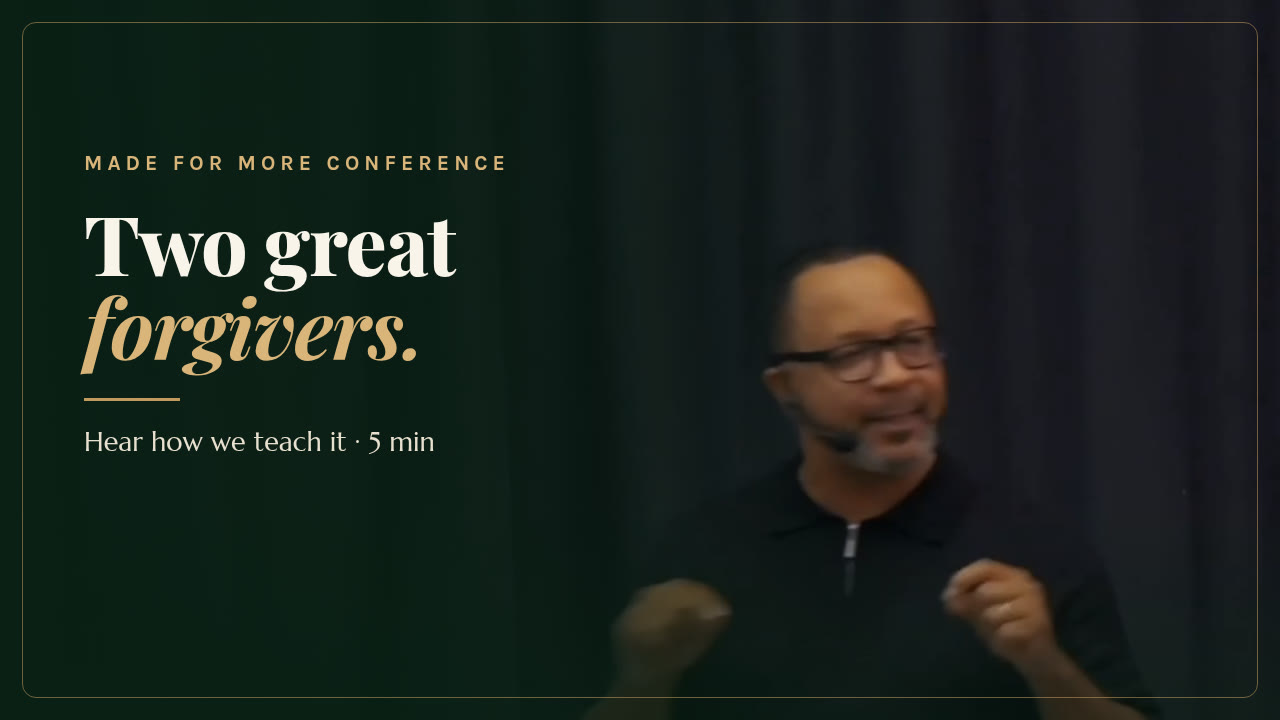
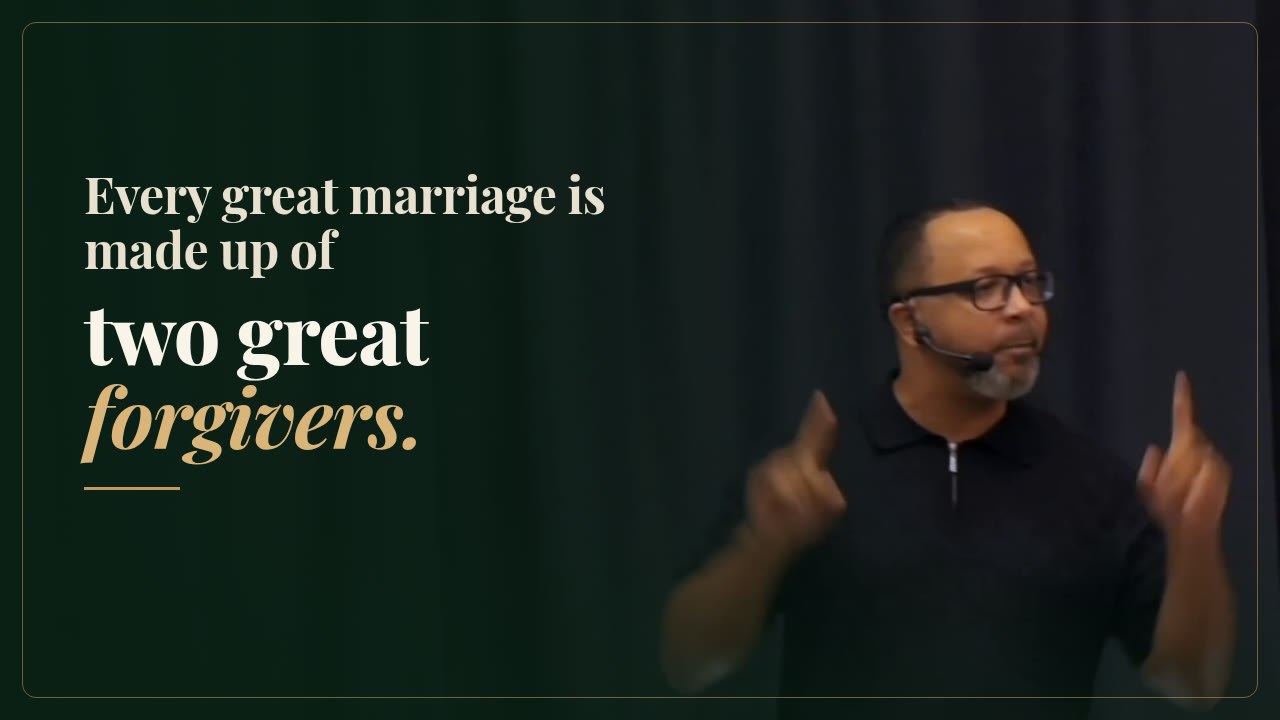
Video thumbnails: talk one-liners only, new smiling/action frames; drop conference and runtime text
- Home poster: new frame (smiling, arms raised), text only 'Fighting fair is still fighting.'
- Speaking poster: new action frame, text 'Every great marriage is made up of two great forgivers.'
- No conference name or runtime on either thumbnail
- Speaking caption and both aria-labels no longer name the conference or runtime
- Poster URLs bumped to ?v=3; applied to all 24 page copies

diff --git a/about/index.html b/about/index.html
@@ -2489,7 +2489,7 @@ body:has(#view-thanks:not([hidden])) .foot{display:none}
 }
 
 
-/* Talk video (Made for More conference) */
+/* Talk video */
 .talk__head{max-width:46rem;margin-bottom:clamp(1.75rem,4vw,2.75rem)}
 .talk__frame{margin:0;max-width:62rem}
 .talk__frame video{display:block;width:100%;height:auto;aspect-ratio:16/9;background:#0D2D1D;border:1px solid rgba(22,38,28,.14);box-shadow:0 22px 44px -28px rgba(13,45,29,.55)}
@@ -2588,7 +2588,7 @@ body:has(#view-thanks:not([hidden])) .foot{display:none}
         <h1 class="reveal"><span class="hero__lead">Get the First Chapter of</span><span class="hero__title">Never Fight <em>or</em><br>Argue Again &ndash; Free</span></h1>
         <p class="hero__sub reveal">Discover biblical conflict resolution for couples who have tried everything. Learn practical tools to create safety, restore connection, and communicate without destructive conflict.</p>
         <figure class="hero__video vframe reveal">
-          <video controls preload="none" playsinline width="1280" height="720" poster="/assets/made-for-more-talk-poster.jpg?v=2" aria-label="Larry Beacham speaking at the Made for More conference">
+          <video controls preload="none" playsinline width="1280" height="720" poster="/assets/made-for-more-talk-poster.jpg?v=3" aria-label="Larry Beacham speaking on marriage and conflict">
             <source src="/assets/made-for-more-talk.mp4" type="video/mp4">
             <track kind="captions" src="/assets/made-for-more-talk.vtt" srclang="en" label="English">
           </video>
@@ -3943,11 +3943,11 @@ body:has(#view-thanks:not([hidden])) .foot{display:none}
         <p>Larry and Ro teach this material the way they learned it — plainly, as two people who needed it first. No performance, no polished couple on a stage pretending the hard years didn't happen.</p>
       </div>
       <figure class="phead__video vframe vframe--dark reveal">
-        <video controls preload="none" playsinline width="1280" height="720" poster="/assets/made-for-more-talk-2-poster.jpg?v=2" aria-label="Larry Beacham speaking at the Made for More conference">
+        <video controls preload="none" playsinline width="1280" height="720" poster="/assets/made-for-more-talk-2-poster.jpg?v=3" aria-label="Larry Beacham speaking on marriage and conflict">
           <source src="/assets/made-for-more-talk-2.mp4" type="video/mp4">
           <track kind="captions" src="/assets/made-for-more-talk-2.vtt" srclang="en" label="English">
         </video>
-        <figcaption>Larry Beacham at the Made for More conference. 5 minutes 12 seconds, captions available.</figcaption>
+        <figcaption>Larry Beacham on conflict and forgiveness in marriage. Captions available.</figcaption>
       </figure>
     </div>
   </header>

diff --git a/book-launch/index.html b/book-launch/index.html
@@ -2489,7 +2489,7 @@ body:has(#view-thanks:not([hidden])) .foot{display:none}
 }
 
 
-/* Talk video (Made for More conference) */
+/* Talk video */
 .talk__head{max-width:46rem;margin-bottom:clamp(1.75rem,4vw,2.75rem)}
 .talk__frame{margin:0;max-width:62rem}
 .talk__frame video{display:block;width:100%;height:auto;aspect-ratio:16/9;background:#0D2D1D;border:1px solid rgba(22,38,28,.14);box-shadow:0 22px 44px -28px rgba(13,45,29,.55)}
@@ -2588,7 +2588,7 @@ body:has(#view-thanks:not([hidden])) .foot{display:none}
         <h1 class="reveal"><span class="hero__lead">Get the First Chapter of</span><span class="hero__title">Never Fight <em>or</em><br>Argue Again &ndash; Free</span></h1>
         <p class="hero__sub reveal">Discover biblical conflict resolution for couples who have tried everything. Learn practical tools to create safety, restore connection, and communicate without destructive conflict.</p>
         <figure class="hero__video vframe reveal">
-          <video controls preload="none" playsinline width="1280" height="720" poster="/assets/made-for-more-talk-poster.jpg?v=2" aria-label="Larry Beacham speaking at the Made for More conference">
+          <video controls preload="none" playsinline width="1280" height="720" poster="/assets/made-for-more-talk-poster.jpg?v=3" aria-label="Larry Beacham speaking on marriage and conflict">
             <source src="/assets/made-for-more-talk.mp4" type="video/mp4">
             <track kind="captions" src="/assets/made-for-more-talk.vtt" srclang="en" label="English">
           </video>
@@ -3943,11 +3943,11 @@ body:has(#view-thanks:not([hidden])) .foot{display:none}
         <p>Larry and Ro teach this material the way they learned it — plainly, as two people who needed it first. No performance, no polished couple on a stage pretending the hard years didn't happen.</p>
       </div>
       <figure class="phead__video vframe vframe--dark reveal">
-        <video controls preload="none" playsinline width="1280" height="720" poster="/assets/made-for-more-talk-2-poster.jpg?v=2" aria-label="Larry Beacham speaking at the Made for More conference">
+        <video controls preload="none" playsinline width="1280" height="720" poster="/assets/made-for-more-talk-2-poster.jpg?v=3" aria-label="Larry Beacham speaking on marriage and conflict">
           <source src="/assets/made-for-more-talk-2.mp4" type="video/mp4">
           <track kind="captions" src="/assets/made-for-more-talk-2.vtt" srclang="en" label="English">
         </video>
-        <figcaption>Larry Beacham at the Made for More conference. 5 minutes 12 seconds, captions available.</figcaption>
+        <figcaption>Larry Beacham on conflict and forgiveness in marriage. Captions available.</figcaption>
       </figure>
     </div>
   </header>

diff --git a/book/checkout/index.html b/book/checkout/index.html
@@ -2489,7 +2489,7 @@ body:has(#view-thanks:not([hidden])) .foot{display:none}
 }
 
 
-/* Talk video (Made for More conference) */
+/* Talk video */
 .talk__head{max-width:46rem;margin-bottom:clamp(1.75rem,4vw,2.75rem)}
 .talk__frame{margin:0;max-width:62rem}
 .talk__frame video{display:block;width:100%;height:auto;aspect-ratio:16/9;background:#0D2D1D;border:1px solid rgba(22,38,28,.14);box-shadow:0 22px 44px -28px rgba(13,45,29,.55)}
@@ -2588,7 +2588,7 @@ body:has(#view-thanks:not([hidden])) .foot{display:none}
         <h1 class="reveal"><span class="hero__lead">Get the First Chapter of</span><span class="hero__title">Never Fight <em>or</em><br>Argue Again &ndash; Free</span></h1>
         <p class="hero__sub reveal">Discover biblical conflict resolution for couples who have tried everything. Learn practical tools to create safety, restore connection, and communicate without destructive conflict.</p>
         <figure class="hero__video vframe reveal">
-          <video controls preload="none" playsinline width="1280" height="720" poster="/assets/made-for-more-talk-poster.jpg?v=2" aria-label="Larry Beacham speaking at the Made for More conference">
+          <video controls preload="none" playsinline width="1280" height="720" poster="/assets/made-for-more-talk-poster.jpg?v=3" aria-label="Larry Beacham speaking on marriage and conflict">
             <source src="/assets/made-for-more-talk.mp4" type="video/mp4">
             <track kind="captions" src="/assets/made-for-more-talk.vtt" srclang="en" label="English">
           </video>
@@ -3945,11 +3945,11 @@ body:has(#view-thanks:not([hidden])) .foot{display:none}
         <p>Larry and Ro teach this material the way they learned it — plainly, as two people who needed it first. No performance, no polished couple on a stage pretending the hard years didn't happen.</p>
       </div>
       <figure class="phead__video vframe vframe--dark reveal">
-        <video controls preload="none" playsinline width="1280" height="720" poster="/assets/made-for-more-talk-2-poster.jpg?v=2" aria-label="Larry Beacham speaking at the Made for More conference">
+        <video controls preload="none" playsinline width="1280" height="720" poster="/assets/made-for-more-talk-2-poster.jpg?v=3" aria-label="Larry Beacham speaking on marriage and conflict">
           <source src="/assets/made-for-more-talk-2.mp4" type="video/mp4">
           <track kind="captions" src="/assets/made-for-more-talk-2.vtt" srclang="en" label="English">
         </video>
-        <figcaption>Larry Beacham at the Made for More conference. 5 minutes 12 seconds, captions available.</figcaption>
+        <figcaption>Larry Beacham on conflict and forgiveness in marriage. Captions available.</figcaption>
       </figure>
     </div>
   </header>

diff --git a/book/index.html b/book/index.html
@@ -2489,7 +2489,7 @@ body:has(#view-thanks:not([hidden])) .foot{display:none}
 }
 
 
-/* Talk video (Made for More conference) */
+/* Talk video */
 .talk__head{max-width:46rem;margin-bottom:clamp(1.75rem,4vw,2.75rem)}
 .talk__frame{margin:0;max-width:62rem}
 .talk__frame video{display:block;width:100%;height:auto;aspect-ratio:16/9;background:#0D2D1D;border:1px solid rgba(22,38,28,.14);box-shadow:0 22px 44px -28px rgba(13,45,29,.55)}
@@ -2588,7 +2588,7 @@ body:has(#view-thanks:not([hidden])) .foot{display:none}
         <h1 class="reveal"><span class="hero__lead">Get the First Chapter of</span><span class="hero__title">Never Fight <em>or</em><br>Argue Again &ndash; Free</span></h1>
         <p class="hero__sub reveal">Discover biblical conflict resolution for couples who have tried everything. Learn practical tools to create safety, restore connection, and communicate without destructive conflict.</p>
         <figure class="hero__video vframe reveal">
-          <video controls preload="none" playsinline width="1280" height="720" poster="/assets/made-for-more-talk-poster.jpg?v=2" aria-label="Larry Beacham speaking at the Made for More conference">
+          <video controls preload="none" playsinline width="1280" height="720" poster="/assets/made-for-more-talk-poster.jpg?v=3" aria-label="Larry Beacham speaking on marriage and conflict">
             <source src="/assets/made-for-more-talk.mp4" type="video/mp4">
             <track kind="captions" src="/assets/made-for-more-talk.vtt" srclang="en" label="English">
           </video>
@@ -3943,11 +3943,11 @@ body:has(#view-thanks:not([hidden])) .foot{display:none}
         <p>Larry and Ro teach this material the way they learned it — plainly, as two people who needed it first. No performance, no polished couple on a stage pretending the hard years didn't happen.</p>
       </div>
       <figure class="phead__video vframe vframe--dark reveal">
-        <video controls preload="none" playsinline width="1280" height="720" poster="/assets/made-for-more-talk-2-poster.jpg?v=2" aria-label="Larry Beacham speaking at the Made for More conference">
+        <video controls preload="none" playsinline width="1280" height="720" poster="/assets/made-for-more-talk-2-poster.jpg?v=3" aria-label="Larry Beacham speaking on marriage and conflict">
           <source src="/assets/made-for-more-talk-2.mp4" type="video/mp4">
           <track kind="captions" src="/assets/made-for-more-talk-2.vtt" srclang="en" label="English">
         </video>
-        <figcaption>Larry Beacham at the Made for More conference. 5 minutes 12 seconds, captions available.</figcaption>
+        <figcaption>Larry Beacham on conflict and forgiveness in marriage. Captions available.</figcaption>
       </figure>
     </div>
   </header>

diff --git a/churches/index.html b/churches/index.html
@@ -2489,7 +2489,7 @@ body:has(#view-thanks:not([hidden])) .foot{display:none}
 }
 
 
-/* Talk video (Made for More conference) */
+/* Talk video */
 .talk__head{max-width:46rem;margin-bottom:clamp(1.75rem,4vw,2.75rem)}
 .talk__frame{margin:0;max-width:62rem}
 .talk__frame video{display:block;width:100%;height:auto;aspect-ratio:16/9;background:#0D2D1D;border:1px solid rgba(22,38,28,.14);box-shadow:0 22px 44px -28px rgba(13,45,29,.55)}
@@ -2588,7 +2588,7 @@ body:has(#view-thanks:not([hidden])) .foot{display:none}
         <h1 class="reveal"><span class="hero__lead">Get the First Chapter of</span><span class="hero__title">Never Fight <em>or</em><br>Argue Again &ndash; Free</span></h1>
         <p class="hero__sub reveal">Discover biblical conflict resolution for couples who have tried everything. Learn practical tools to create safety, restore connection, and communicate without destructive conflict.</p>
         <figure class="hero__video vframe reveal">
-          <video controls preload="none" playsinline width="1280" height="720" poster="/assets/made-for-more-talk-poster.jpg?v=2" aria-label="Larry Beacham speaking at the Made for More conference">
+          <video controls preload="none" playsinline width="1280" height="720" poster="/assets/made-for-more-talk-poster.jpg?v=3" aria-label="Larry Beacham speaking on marriage and conflict">
             <source src="/assets/made-for-more-talk.mp4" type="video/mp4">
             <track kind="captions" src="/assets/made-for-more-talk.vtt" srclang="en" label="English">
           </video>
@@ -3943,11 +3943,11 @@ body:has(#view-thanks:not([hidden])) .foot{display:none}
         <p>Larry and Ro teach this material the way they learned it — plainly, as two people who needed it first. No performance, no polished couple on a stage pretending the hard years didn't happen.</p>
       </div>
       <figure class="phead__video vframe vframe--dark reveal">
-        <video controls preload="none" playsinline width="1280" height="720" poster="/assets/made-for-more-talk-2-poster.jpg?v=2" aria-label="Larry Beacham speaking at the Made for More conference">
+        <video controls preload="none" playsinline width="1280" height="720" poster="/assets/made-for-more-talk-2-poster.jpg?v=3" aria-label="Larry Beacham speaking on marriage and conflict">
           <source src="/assets/made-for-more-talk-2.mp4" type="video/mp4">
           <track kind="captions" src="/assets/made-for-more-talk-2.vtt" srclang="en" label="English">
         </video>
-        <figcaption>Larry Beacham at the Made for More conference. 5 minutes 12 seconds, captions available.</figcaption>
+        <figcaption>Larry Beacham on conflict and forgiveness in marriage. Captions available.</figcaption>
       </figure>
     </div>
   </header>

diff --git a/express/index.html b/express/index.html
@@ -2489,7 +2489,7 @@ body:has(#view-thanks:not([hidden])) .foot{display:none}
 }
 
 
-/* Talk video (Made for More conference) */
+/* Talk video */
 .talk__head{max-width:46rem;margin-bottom:clamp(1.75rem,4vw,2.75rem)}
 .talk__frame{margin:0;max-width:62rem}
 .talk__frame video{display:block;width:100%;height:auto;aspect-ratio:16/9;background:#0D2D1D;border:1px solid rgba(22,38,28,.14);box-shadow:0 22px 44px -28px rgba(13,45,29,.55)}
@@ -2588,7 +2588,7 @@ body:has(#view-thanks:not([hidden])) .foot{display:none}
         <h1 class="reveal"><span class="hero__lead">Get the First Chapter of</span><span class="hero__title">Never Fight <em>or</em><br>Argue Again &ndash; Free</span></h1>
         <p class="hero__sub reveal">Discover biblical conflict resolution for couples who have tried everything. Learn practical tools to create safety, restore connection, and communicate without destructive conflict.</p>
         <figure class="hero__video vframe reveal">
-          <video controls preload="none" playsinline width="1280" height="720" poster="/assets/made-for-more-talk-poster.jpg?v=2" aria-label="Larry Beacham speaking at the Made for More conference">
+          <video controls preload="none" playsinline width="1280" height="720" poster="/assets/made-for-more-talk-poster.jpg?v=3" aria-label="Larry Beacham speaking on marriage and conflict">
             <source src="/assets/made-for-more-talk.mp4" type="video/mp4">
             <track kind="captions" src="/assets/made-for-more-talk.vtt" srclang="en" label="English">
           </video>
@@ -3943,11 +3943,11 @@ body:has(#view-thanks:not([hidden])) .foot{display:none}
         <p>Larry and Ro teach this material the way they learned it — plainly, as two people who needed it first. No performance, no polished couple on a stage pretending the hard years didn't happen.</p>
       </div>
       <figure class="phead__video vframe vframe--dark reveal">
-        <video controls preload="none" playsinline width="1280" height="720" poster="/assets/made-for-more-talk-2-poster.jpg?v=2" aria-label="Larry Beacham speaking at the Made for More conference">
+        <video controls preload="none" playsinline width="1280" height="720" poster="/assets/made-for-more-talk-2-poster.jpg?v=3" aria-label="Larry Beacham speaking on marriage and conflict">
           <source src="/assets/made-for-more-talk-2.mp4" type="video/mp4">
           <track kind="captions" src="/assets/made-for-more-talk-2.vtt" srclang="en" label="English">
         </video>
-        <figcaption>Larry Beacham at the Made for More conference. 5 minutes 12 seconds, captions available.</figcaption>
+        <figcaption>Larry Beacham on conflict and forgiveness in marriage. Captions available.</figcaption>
       </figure>
     </div>
   </header>

diff --git a/free-chapter/index.html b/free-chapter/index.html
@@ -2489,7 +2489,7 @@ body:has(#view-thanks:not([hidden])) .foot{display:none}
 }
 
 
-/* Talk video (Made for More conference) */
+/* Talk video */
 .talk__head{max-width:46rem;margin-bottom:clamp(1.75rem,4vw,2.75rem)}
 .talk__frame{margin:0;max-width:62rem}
 .talk__frame video{display:block;width:100%;height:auto;aspect-ratio:16/9;background:#0D2D1D;border:1px solid rgba(22,38,28,.14);box-shadow:0 22px 44px -28px rgba(13,45,29,.55)}
@@ -2588,7 +2588,7 @@ body:has(#view-thanks:not([hidden])) .foot{display:none}
         <h1 class="reveal"><span class="hero__lead">Get the First Chapter of</span><span class="hero__title">Never Fight <em>or</em><br>Argue Again &ndash; Free</span></h1>
         <p class="hero__sub reveal">Discover biblical conflict resolution for couples who have tried everything. Learn practical tools to create safety, restore connection, and communicate without destructive conflict.</p>
         <figure class="hero__video vframe reveal">
-          <video controls preload="none" playsinline width="1280" height="720" poster="/assets/made-for-more-talk-poster.jpg?v=2" aria-label="Larry Beacham speaking at the Made for More conference">
+          <video controls preload="none" playsinline width="1280" height="720" poster="/assets/made-for-more-talk-poster.jpg?v=3" aria-label="Larry Beacham speaking on marriage and conflict">
             <source src="/assets/made-for-more-talk.mp4" type="video/mp4">
             <track kind="captions" src="/assets/made-for-more-talk.vtt" srclang="en" label="English">
           </video>
@@ -3943,11 +3943,11 @@ body:has(#view-thanks:not([hidden])) .foot{display:none}
         <p>Larry and Ro teach this material the way they learned it — plainly, as two people who needed it first. No performance, no polished couple on a stage pretending the hard years didn't happen.</p>
       </div>
       <figure class="phead__video vframe vframe--dark reveal">
-        <video controls preload="none" playsinline width="1280" height="720" poster="/assets/made-for-more-talk-2-poster.jpg?v=2" aria-label="Larry Beacham speaking at the Made for More conference">
+        <video controls preload="none" playsinline width="1280" height="720" poster="/assets/made-for-more-talk-2-poster.jpg?v=3" aria-label="Larry Beacham speaking on marriage and conflict">
           <source src="/assets/made-for-more-talk-2.mp4" type="video/mp4">
           <track kind="captions" src="/assets/made-for-more-talk-2.vtt" srclang="en" label="English">
         </video>
-        <figcaption>Larry Beacham at the Made for More conference. 5 minutes 12 seconds, captions available.</figcaption>
+        <figcaption>Larry Beacham on conflict and forgiveness in marriage. Captions available.</figcaption>
       </figure>
     </div>
   </header>

diff --git a/gift-thank-you/index.html b/gift-thank-you/index.html
@@ -2489,7 +2489,7 @@ body:has(#view-thanks:not([hidden])) .foot{display:none}
 }
 
 
-/* Talk video (Made for More conference) */
+/* Talk video */
 .talk__head{max-width:46rem;margin-bottom:clamp(1.75rem,4vw,2.75rem)}
 .talk__frame{margin:0;max-width:62rem}
 .talk__frame video{display:block;width:100%;height:auto;aspect-ratio:16/9;background:#0D2D1D;border:1px solid rgba(22,38,28,.14);box-shadow:0 22px 44px -28px rgba(13,45,29,.55)}
@@ -2588,7 +2588,7 @@ body:has(#view-thanks:not([hidden])) .foot{display:none}
         <h1 class="reveal"><span class="hero__lead">Get the First Chapter of</span><span class="hero__title">Never Fight <em>or</em><br>Argue Again &ndash; Free</span></h1>
         <p class="hero__sub reveal">Discover biblical conflict resolution for couples who have tried everything. Learn practical tools to create safety, restore connection, and communicate without destructive conflict.</p>
         <figure class="hero__video vframe reveal">
-          <video controls preload="none" playsinline width="1280" height="720" poster="/assets/made-for-more-talk-poster.jpg?v=2" aria-label="Larry Beacham speaking at the Made for More conference">
+          <video controls preload="none" playsinline width="1280" height="720" poster="/assets/made-for-more-talk-poster.jpg?v=3" aria-label="Larry Beacham speaking on marriage and conflict">
             <source src="/assets/made-for-more-talk.mp4" type="video/mp4">
             <track kind="captions" src="/assets/made-for-more-talk.vtt" srclang="en" label="English">
           </video>
@@ -3943,11 +3943,11 @@ body:has(#view-thanks:not([hidden])) .foot{display:none}
         <p>Larry and Ro teach this material the way they learned it — plainly, as two people who needed it first. No performance, no polished couple on a stage pretending the hard years didn't happen.</p>
       </div>
       <figure class="phead__video vframe vframe--dark reveal">
-        <video controls preload="none" playsinline width="1280" height="720" poster="/assets/made-for-more-talk-2-poster.jpg?v=2" aria-label="Larry Beacham speaking at the Made for More conference">
+        <video controls preload="none" playsinline width="1280" height="720" poster="/assets/made-for-more-talk-2-poster.jpg?v=3" aria-label="Larry Beacham speaking on marriage and conflict">
           <source src="/assets/made-for-more-talk-2.mp4" type="video/mp4">
           <track kind="captions" src="/assets/made-for-more-talk-2.vtt" srclang="en" label="English">
         </video>
-        <figcaption>Larry Beacham at the Made for More conference. 5 minutes 12 seconds, captions available.</figcaption>
+        <figcaption>Larry Beacham on conflict and forgiveness in marriage. Captions available.</figcaption>
       </figure>
     </div>
   </header>

diff --git a/gift/checkout/index.html b/gift/checkout/index.html
@@ -2489,7 +2489,7 @@ body:has(#view-thanks:not([hidden])) .foot{display:none}
 }
 
 
-/* Talk video (Made for More conference) */
+/* Talk video */
 .talk__head{max-width:46rem;margin-bottom:clamp(1.75rem,4vw,2.75rem)}
 .talk__frame{margin:0;max-width:62rem}
 .talk__frame video{display:block;width:100%;height:auto;aspect-ratio:16/9;background:#0D2D1D;border:1px solid rgba(22,38,28,.14);box-shadow:0 22px 44px -28px rgba(13,45,29,.55)}
@@ -2588,7 +2588,7 @@ body:has(#view-thanks:not([hidden])) .foot{display:none}
         <h1 class="reveal"><span class="hero__lead">Get the First Chapter of</span><span class="hero__title">Never Fight <em>or</em><br>Argue Again &ndash; Free</span></h1>
         <p class="hero__sub reveal">Discover biblical conflict resolution for couples who have tried everything. Learn practical tools to create safety, restore connection, and communicate without destructive conflict.</p>
         <figure class="hero__video vframe reveal">
-          <video controls preload="none" playsinline width="1280" height="720" poster="/assets/made-for-more-talk-poster.jpg?v=2" aria-label="Larry Beacham speaking at the Made for More conference">
+          <video controls preload="none" playsinline width="1280" height="720" poster="/assets/made-for-more-talk-poster.jpg?v=3" aria-label="Larry Beacham speaking on marriage and conflict">
             <source src="/assets/made-for-more-talk.mp4" type="video/mp4">
             <track kind="captions" src="/assets/made-for-more-talk.vtt" srclang="en" label="English">
           </video>
@@ -3945,11 +3945,11 @@ body:has(#view-thanks:not([hidden])) .foot{display:none}
         <p>Larry and Ro teach this material the way they learned it — plainly, as two people who needed it first. No performance, no polished couple on a stage pretending the hard years didn't happen.</p>
       </div>
       <figure class="phead__video vframe vframe--dark reveal">
-        <video controls preload="none" playsinline width="1280" height="720" poster="/assets/made-for-more-talk-2-poster.jpg?v=2" aria-label="Larry Beacham speaking at the Made for More conference">
+        <video controls preload="none" playsinline width="1280" height="720" poster="/assets/made-for-more-talk-2-poster.jpg?v=3" aria-label="Larry Beacham speaking on marriage and conflict">
           <source src="/assets/made-for-more-talk-2.mp4" type="video/mp4">
           <track kind="captions" src="/assets/made-for-more-talk-2.vtt" srclang="en" label="English">
         </video>
-        <figcaption>Larry Beacham at the Made for More conference. 5 minutes 12 seconds, captions available.</figcaption>
+        <figcaption>Larry Beacham on conflict and forgiveness in marriage. Captions available.</figcaption>
       </figure>
     </div>
   </header>

diff --git a/gift/index.html b/gift/index.html
@@ -2488,7 +2488,7 @@ body:has(#view-thanks:not([hidden])) .foot{display:none}
 }
 
 
-/* Talk video (Made for More conference) */
+/* Talk video */
 .talk__head{max-width:46rem;margin-bottom:clamp(1.75rem,4vw,2.75rem)}
 .talk__frame{margin:0;max-width:62rem}
 .talk__frame video{display:block;width:100%;height:auto;aspect-ratio:16/9;background:#0D2D1D;border:1px solid rgba(22,38,28,.14);box-shadow:0 22px 44px -28px rgba(13,45,29,.55)}
@@ -2587,7 +2587,7 @@ body:has(#view-thanks:not([hidden])) .foot{display:none}
         <h1 class="reveal"><span class="hero__lead">Get the First Chapter of</span><span class="hero__title">Never Fight <em>or</em><br>Argue Again &ndash; Free</span></h1>
         <p class="hero__sub reveal">Discover biblical conflict resolution for couples who have tried everything. Learn practical tools to create safety, restore connection, and communicate without destructive conflict.</p>
         <figure class="hero__video vframe reveal">
-          <video controls preload="none" playsinline width="1280" height="720" poster="/assets/made-for-more-talk-poster.jpg?v=2" aria-label="Larry Beacham speaking at the Made for More conference">
+          <video controls preload="none" playsinline width="1280" height="720" poster="/assets/made-for-more-talk-poster.jpg?v=3" aria-label="Larry Beacham speaking on marriage and conflict">
             <source src="/assets/made-for-more-talk.mp4" type="video/mp4">
             <track kind="captions" src="/assets/made-for-more-talk.vtt" srclang="en" label="English">
           </video>
@@ -3942,11 +3942,11 @@ body:has(#view-thanks:not([hidden])) .foot{display:none}
         <p>Larry and Ro teach this material the way they learned it — plainly, as two people who needed it first. No performance, no polished couple on a stage pretending the hard years didn't happen.</p>
       </div>
       <figure class="phead__video vframe vframe--dark reveal">
-        <video controls preload="none" playsinline width="1280" height="720" poster="/assets/made-for-more-talk-2-poster.jpg?v=2" aria-label="Larry Beacham speaking at the Made for More conference">
+        <video controls preload="none" playsinline width="1280" height="720" poster="/assets/made-for-more-talk-2-poster.jpg?v=3" aria-label="Larry Beacham speaking on marriage and conflict">
           <source src="/assets/made-for-more-talk-2.mp4" type="video/mp4">
           <track kind="captions" src="/assets/made-for-more-talk-2.vtt" srclang="en" label="English">
         </video>
-        <figcaption>Larry Beacham at the Made for More conference. 5 minutes 12 seconds, captions available.</figcaption>
+        <figcaption>Larry Beacham on conflict and forgiveness in marriage. Captions available.</figcaption>
       </figure>
     </div>
   </header>

diff --git a/guests/index.html b/guests/index.html
@@ -2489,7 +2489,7 @@ body:has(#view-thanks:not([hidden])) .foot{display:none}
 }
 
 
-/* Talk video (Made for More conference) */
+/* Talk video */
 .talk__head{max-width:46rem;margin-bottom:clamp(1.75rem,4vw,2.75rem)}
 .talk__frame{margin:0;max-width:62rem}
 .talk__frame video{display:block;width:100%;height:auto;aspect-ratio:16/9;background:#0D2D1D;border:1px solid rgba(22,38,28,.14);box-shadow:0 22px 44px -28px rgba(13,45,29,.55)}
@@ -2588,7 +2588,7 @@ body:has(#view-thanks:not([hidden])) .foot{display:none}
         <h1 class="reveal"><span class="hero__lead">Get the First Chapter of</span><span class="hero__title">Never Fight <em>or</em><br>Argue Again &ndash; Free</span></h1>
         <p class="hero__sub reveal">Discover biblical conflict resolution for couples who have tried everything. Learn practical tools to create safety, restore connection, and communicate without destructive conflict.</p>
         <figure class="hero__video vframe reveal">
-          <video controls preload="none" playsinline width="1280" height="720" poster="/assets/made-for-more-talk-poster.jpg?v=2" aria-label="Larry Beacham speaking at the Made for More conference">
+          <video controls preload="none" playsinline width="1280" height="720" poster="/assets/made-for-more-talk-poster.jpg?v=3" aria-label="Larry Beacham speaking on marriage and conflict">
             <source src="/assets/made-for-more-talk.mp4" type="video/mp4">
             <track kind="captions" src="/assets/made-for-more-talk.vtt" srclang="en" label="English">
           </video>
@@ -3943,11 +3943,11 @@ body:has(#view-thanks:not([hidden])) .foot{display:none}
         <p>Larry and Ro teach this material the way they learned it — plainly, as two people who needed it first. No performance, no polished couple on a stage pretending the hard years didn't happen.</p>
       </div>
       <figure class="phead__video vframe vframe--dark reveal">
-        <video controls preload="none" playsinline width="1280" height="720" poster="/assets/made-for-more-talk-2-poster.jpg?v=2" aria-label="Larry Beacham speaking at the Made for More conference">
+        <video controls preload="none" playsinline width="1280" height="720" poster="/assets/made-for-more-talk-2-poster.jpg?v=3" aria-label="Larry Beacham speaking on marriage and conflict">
           <source src="/assets/made-for-more-talk-2.mp4" type="video/mp4">
           <track kind="captions" src="/assets/made-for-more-talk-2.vtt" srclang="en" label="English">
         </video>
-        <figcaption>Larry Beacham at the Made for More conference. 5 minutes 12 seconds, captions available.</figcaption>
+        <figcaption>Larry Beacham on conflict and forgiveness in marriage. Captions available.</figcaption>
       </figure>
     </div>
   </header>

diff --git a/index.html b/index.html
@@ -2488,7 +2488,7 @@ body:has(#view-thanks:not([hidden])) .foot{display:none}
 }
 
 
-/* Talk video (Made for More conference) */
+/* Talk video */
 .talk__head{max-width:46rem;margin-bottom:clamp(1.75rem,4vw,2.75rem)}
 .talk__frame{margin:0;max-width:62rem}
 .talk__frame video{display:block;width:100%;height:auto;aspect-ratio:16/9;background:#0D2D1D;border:1px solid rgba(22,38,28,.14);box-shadow:0 22px 44px -28px rgba(13,45,29,.55)}
@@ -2587,7 +2587,7 @@ body:has(#view-thanks:not([hidden])) .foot{display:none}
         <h1 class="reveal"><span class="hero__lead">Get the First Chapter of</span><span class="hero__title">Never Fight <em>or</em><br>Argue Again &ndash; Free</span></h1>
         <p class="hero__sub reveal">Discover biblical conflict resolution for couples who have tried everything. Learn practical tools to create safety, restore connection, and communicate without destructive conflict.</p>
         <figure class="hero__video vframe reveal">
-          <video controls preload="none" playsinline width="1280" height="720" poster="/assets/made-for-more-talk-poster.jpg?v=2" aria-label="Larry Beacham speaking at the Made for More conference">
+          <video controls preload="none" playsinline width="1280" height="720" poster="/assets/made-for-more-talk-poster.jpg?v=3" aria-label="Larry Beacham speaking on marriage and conflict">
             <source src="/assets/made-for-more-talk.mp4" type="video/mp4">
             <track kind="captions" src="/assets/made-for-more-talk.vtt" srclang="en" label="English">
           </video>
@@ -3942,11 +3942,11 @@ body:has(#view-thanks:not([hidden])) .foot{display:none}
         <p>Larry and Ro teach this material the way they learned it — plainly, as two people who needed it first. No performance, no polished couple on a stage pretending the hard years didn't happen.</p>
       </div>
       <figure class="phead__video vframe vframe--dark reveal">
-        <video controls preload="none" playsinline width="1280" height="720" poster="/assets/made-for-more-talk-2-poster.jpg?v=2" aria-label="Larry Beacham speaking at the Made for More conference">
+        <video controls preload="none" playsinline width="1280" height="720" poster="/assets/made-for-more-talk-2-poster.jpg?v=3" aria-label="Larry Beacham speaking on marriage and conflict">
           <source src="/assets/made-for-more-talk-2.mp4" type="video/mp4">
           <track kind="captions" src="/assets/made-for-more-talk-2.vtt" srclang="en" label="English">
         </video>
-        <figcaption>Larry Beacham at the Made for More conference. 5 minutes 12 seconds, captions available.</figcaption>
+        <figcaption>Larry Beacham on conflict and forgiveness in marriage. Captions available.</figcaption>
       </figure>
     </div>
   </header>
